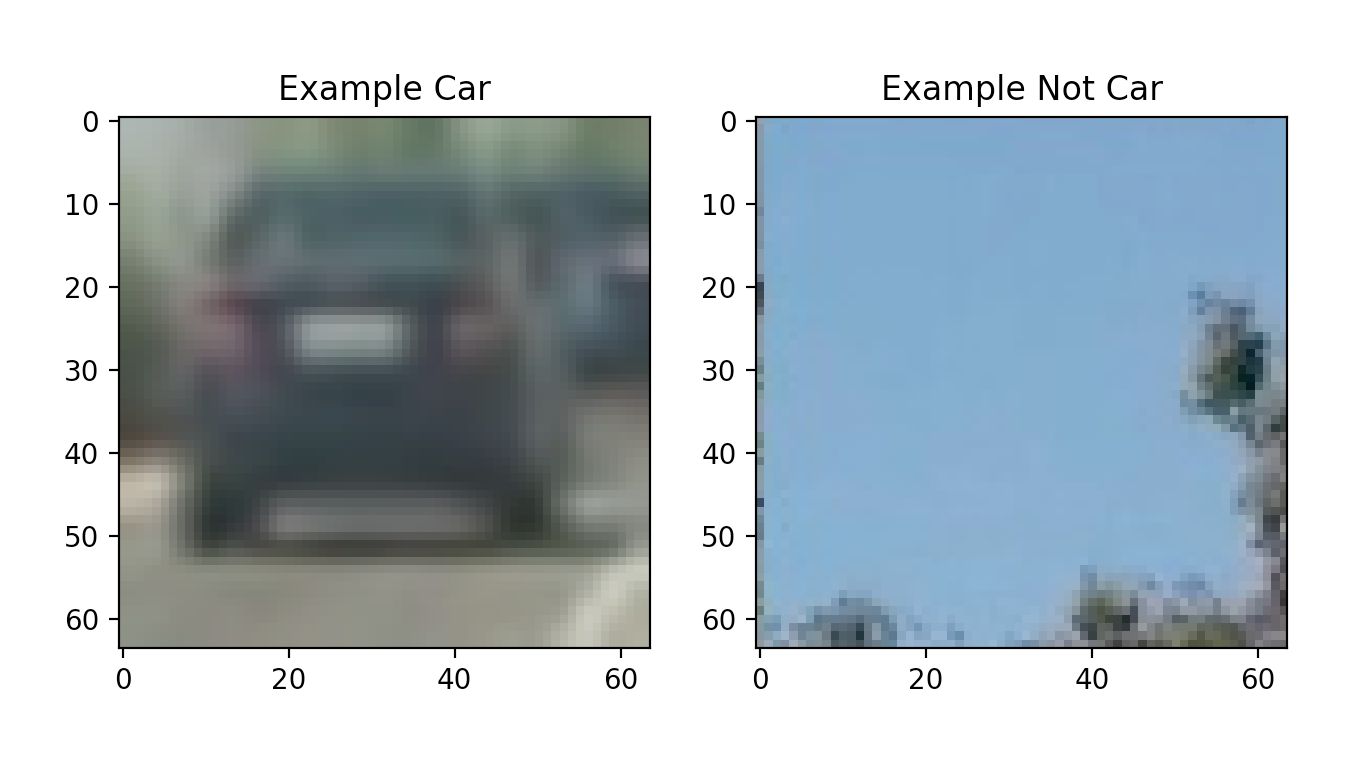
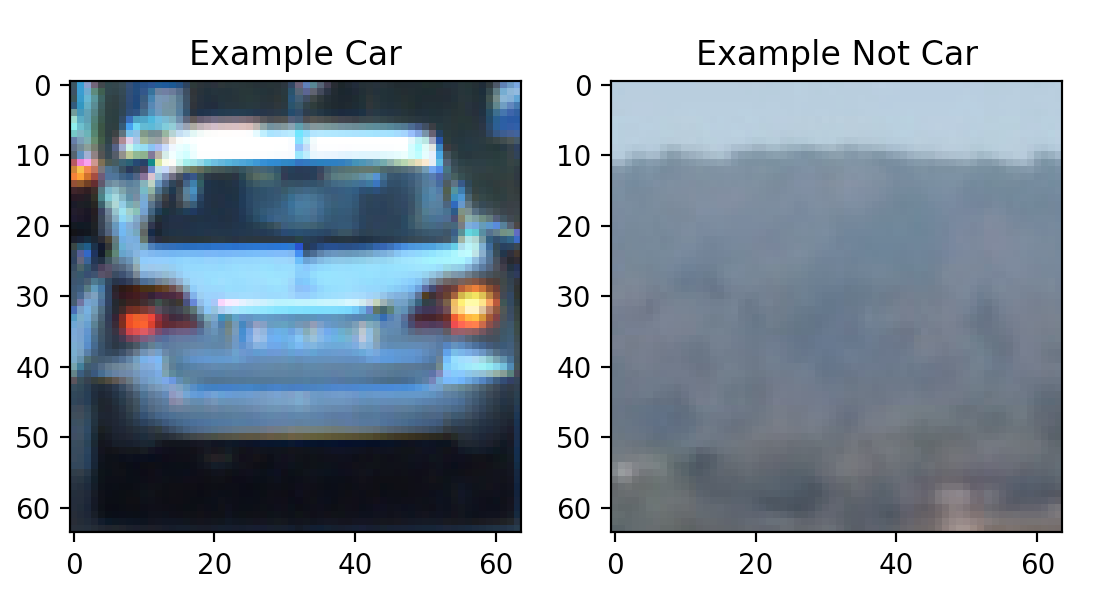
wip writeup

diff --git a/utils.py b/utils.py
@@ -270,9 +270,9 @@ def output_plots():
     print("Found {} cars.".format(len(cars)))
     print("Found {} not cars.".format(len(not_cars)))
 
-    car = cv2.imread(cars[0])
+    car = cv2.imread(cars[5000])
     car = cv2.cvtColor(car, cv2.COLOR_BGR2RGB)
-    not_car = cv2.imread(not_cars[0])
+    not_car = cv2.imread(not_cars[5000])
     not_car = cv2.cvtColor(not_car, cv2.COLOR_BGR2RGB)
 
     fig = plt.figure()
@@ -284,6 +284,50 @@ def output_plots():
     plt.subplot(122)
     plt.imshow(not_car)
     plt.title("Example Not Car")
+
+    plt.show()
+
+    fig, ax = plt.subplots(3, 4, sharex="col", sharey="row")
+
+    car_ycrcb = cv2.cvtColor(car, cv2.COLOR_RGB2YCrCb)
+
+    ax[0, 0].imshow(car_ycrcb[:,:,0], cmap="gray")
+    ax[0, 0].set_title("Car Y Channel")
+    ax[1, 0].imshow(car_ycrcb[:,:,1], cmap="gray")
+    ax[1, 0].set_title("Car Cr Channel")
+    ax[2, 0].imshow(car_ycrcb[:,:,2], cmap="gray")
+    ax[2, 0].set_title("Car Cb Channel")
+
+    not_car_ycrcb = cv2.cvtColor(not_car, cv2.COLOR_RGB2YCrCb)
+
+    ax[0, 2].imshow(not_car_ycrcb[:,:,0], cmap="gray")
+    ax[0, 2].set_title("Not Car Y Channel")
+    ax[1, 2].imshow(not_car_ycrcb[:,:,1], cmap="gray")
+    ax[1, 2].set_title("Not Car Cr Channel")
+    ax[2, 2].imshow(not_car_ycrcb[:,:,2], cmap="gray")
+    ax[2, 2].set_title("Not Car Cb Channel")
+
+    _, car_hog_y = compute_hog(car_ycrcb[:,:,0], vis=True)
+    _, car_hog_cr = compute_hog(car_ycrcb[:,:,1], vis=True)
+    _, car_hog_cb = compute_hog(car_ycrcb[:,:,2], vis=True)
+
+    ax[0, 1].imshow(car_hog_y, cmap="gray")
+    ax[0, 1].set_title("Car HOG Y Channel")
+    ax[1, 1].imshow(car_hog_cr, cmap="gray")
+    ax[1, 1].set_title("Car HOG Cr Channel")
+    ax[2, 1].imshow(car_hog_cb, cmap="gray")
+    ax[2, 1].set_title("Car HOG Cb Channel")
+
+    _, not_car_hog_y = compute_hog(not_car_ycrcb[:,:,0], vis=True)
+    _, not_car_hog_cr = compute_hog(not_car_ycrcb[:,:,1], vis=True)
+    _, not_car_hog_cb = compute_hog(not_car_ycrcb[:,:,2], vis=True)
+
+    ax[0, 3].imshow(not_car_hog_y, cmap="gray")
+    ax[0, 3].set_title("Not Car HOG Y Channel")
+    ax[1, 3].imshow(not_car_hog_cr, cmap="gray")
+    ax[1, 3].set_title("Not Car HOG Cr Channel")
+    ax[2, 3].imshow(not_car_hog_cb, cmap="gray")
+    ax[2, 3].set_title("Not Car HOG Cb Channel")
 
     plt.show()
 

diff --git a/writeup_template.md b/writeup_template.md
@@ -6,7 +6,7 @@
 
 [//]: # (Image References)
 [image1]: ./examples/car_not_car.png
-[image2]: ./examples/HOG_example.jpg
+[image2]: ./examples/HOG_example.png
 [image3]: ./examples/sliding_windows.jpg
 [image4]: ./examples/sliding_window.jpg
 [image5]: ./examples/bboxes_and_heat.png
@@ -35,16 +35,24 @@ example of one of each of the `vehicle` and `non-vehicle` classes:
 
 ![alt text][image1]
 
-I then explored different color spaces and different `skimage.hog()` parameters (`orientations`, `pixels_per_cell`, and `cells_per_block`).  I grabbed random images from each of the two classes and displayed them to get a feel for what the `skimage.hog()` output looks like.
+I then explored different color spaces and different `skimage.hog()` parameters
+(`orientations`, `pixels_per_cell`, and `cells_per_block`).  I grabbed random
+images from each of the two classes and displayed them to get a feel for what
+the `skimage.hog()` output looks like.
 
-Here is an example using the `YCrCb` color space and HOG parameters of `orientations=8`, `pixels_per_cell=(8, 8)` and `cells_per_block=(2, 2)`:
-
+Here is an example using the `YCrCb` color space and HOG parameters of
+`orientations=9`, `pixels_per_cell=(8, 8)` and `cells_per_block=(2, 2)`:
 
 ![alt text][image2]
 
 ####2. Explain how you settled on your final choice of HOG parameters.
 
-I tried various combinations of parameters and...
+I tried various combinations of parameters and settled on `pixels_per_cell` of
+(8, 8) and `cells_per_block` of (2, 2).  This made the grid a nice power of 2 to
+match the image dimensions and seemed to work well for the sizes of cars I was
+trying to extract features from.  I settled on `orientations` of 9 which seemed
+to give enough discrimination in orientation direction without overfitting to
+represent too specific of a shape.
 
 ####3. Describe how (and identify where in your code) you trained a classifier using your selected HOG features (and color features if you used them).
 
